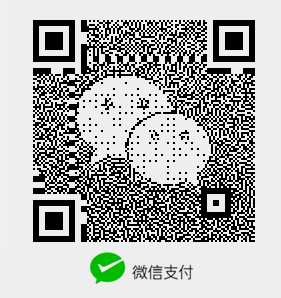
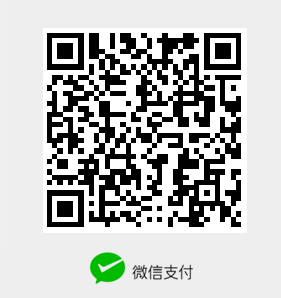
把那个扫不出的二维码换了

Changed region(s): [[0.1139, 0.0604, 0.911, 0.8154]]

diff --git a/donate.zh-cn.html b/donate.zh-cn.html
@@ -1,3 +1,3 @@
 <!DOCTYPE html><html><head><meta charset="utf-8"><meta http-equiv="X-UA-Compatible" content="IE=edge"><meta name="viewport" content="width=device-width,initial-scale=1"><meta name="theme-color" content="#455A64"><meta name="msapplication-navbutton-color" content="#455A64"><link rel="shortcut icon" href="/favicon.ico" type="image/vnd.microsoft.icon"><link rel="icon" href="/favicon.ico" type="image/vnd.microsoft.icon"><title>捐赠 - laobubu</title><link rel="stylesheet" href="style/lframe.css"><!--[if lt IE 9]>
     <script src="//cdn.bootcss.com/html5shiv/r29/html5.min.js"></script>
-  <![endif]--></head><body><nav role="navigation"><ul class="navbar"><li><a href="./" data-translate>主页</a></li></ul></nav><section role="article" class="article"><p><a href="http://blog.laobubu.net/donate/#heroes"><img src="image/sponsors.png" alt="Sponsors"></a></p><h1 data-translate>帮我买杯咖啡</h1><p>很高兴我的作品能给你带来帮助，也感谢你点击了那个捐赠的链接。</p><p>正如您所见，我的作品基本都是免费提供的。如果您觉得我的作品很有帮助，不妨帮我买杯“咖啡”，小额地支持一下我。</p><p>轻点一下 PayPal 的按钮，或者用支付宝/微信扫描该二维码吧。非常感谢您的支持！</p><div class="tricol"><div class="tricol-center"><h2>PayPal</h2><form action="https://www.paypal.com/cgi-bin/webscr" method="post" target="_top"><input type="hidden" name="cmd" value="_donations"> <input type="hidden" name="business" value="laobubu@gmail.com"> <input type="hidden" name="lc" value="US"> <input type="hidden" name="item_name" value="laobubu.net"> <input type="hidden" name="no_note" value="0"> <input type="hidden" name="currency_code" value="USD"> <input type="hidden" name="bn" value="PP-DonationsBF:btn_donateCC_LG.gif:NonHostedGuest"> <input type="image" src="https://www.paypalobjects.com/en_US/i/btn/btn_donateCC_LG.gif" border="0" name="submit" alt="PayPal - the safest way to pay"> <img alt="" border="0" src="https://www.paypalobjects.com/en_US/i/scr/pixel.gif" width="1" height="1"></form></div><div class="tricol-center"><a href="https://qr.alipay.com/apvqu49h7662kez218"><img src="image/alipay.png" alt="Alipay QR Code"></a></div><div class="tricol-center"><img src="image/wechat.png" alt="WeChat QR Code"></div></div><p id="i18n_selector">Language: <a href="./donate.html?ncr" hreflang="en">English</a> <a href="./donate.zh-cn.html?ncr" hreflang="zh-cn">简体中文</a></p></section></body></html>
+  <![endif]--></head><body><nav role="navigation"><ul class="navbar"><li><a href="./" data-translate>主页</a></li></ul></nav><section role="article" class="article"><p><a href="http://blog.laobubu.net/donate/#heroes"><img src="image/sponsors.png" alt="Sponsors"></a></p><h1 data-translate>帮我买杯咖啡</h1><p>很高兴我的作品能给你带来帮助，也感谢你点击了那个捐赠的链接。</p><p>正如您所见，我的作品基本都是免费提供的。如果您觉得我的作品很有帮助，不妨帮我买杯“咖啡”，小额地支持一下我。</p><p>轻点一下 PayPal 的按钮，或者用支付宝/微信扫描该二维码吧。非常感谢您的支持！</p><div class="tricol"><div class="tricol-center"><h2>PayPal</h2><form action="https://www.paypal.com/cgi-bin/webscr" method="post" target="_top"><input type="hidden" name="cmd" value="_donations"> <input type="hidden" name="business" value="laobubu@gmail.com"> <input type="hidden" name="lc" value="US"> <input type="hidden" name="item_name" value="laobubu.net"> <input type="hidden" name="no_note" value="0"> <input type="hidden" name="currency_code" value="USD"> <input type="hidden" name="bn" value="PP-DonationsBF:btn_donateCC_LG.gif:NonHostedGuest"> <input type="image" src="https://www.paypalobjects.com/en_US/i/btn/btn_donateCC_LG.gif" border="0" name="submit" alt="PayPal - the safest way to pay"> <img alt="" border="0" src="https://www.paypalobjects.com/en_US/i/scr/pixel.gif" width="1" height="1"></form></div><div class="tricol-center"><a href="https://qr.alipay.com/apvqu49h7662kez218"><img src="image/alipay.png" alt="Alipay QR Code"></a></div><div class="tricol-center"><img src="image/wechat.png" alt="WeChat QR Code"></div></div><p style="font-size:83%">注：微信支付看不到付款人信息，无法传达谢意，只能在此以一句话感谢不知如何称呼的您的捐赠，谢谢。</p><p id="i18n_selector">Language: <a href="./donate.html?ncr" hreflang="en">English</a> <a href="./donate.zh-cn.html?ncr" hreflang="zh-cn">简体中文</a></p></section></body></html>
